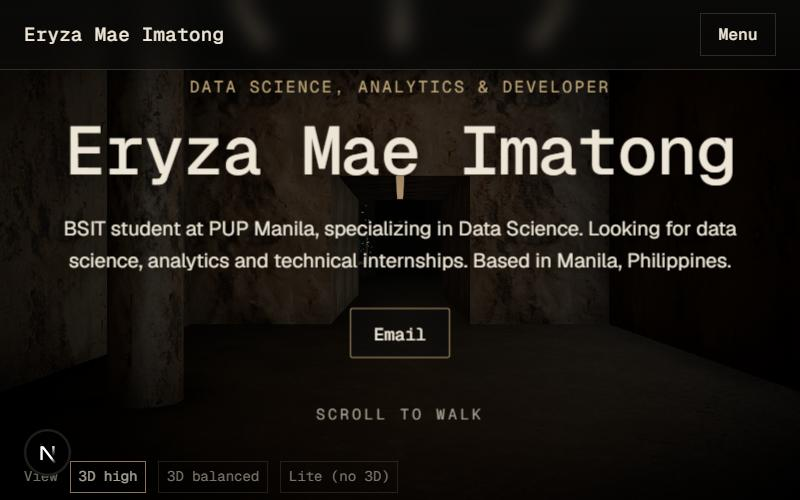
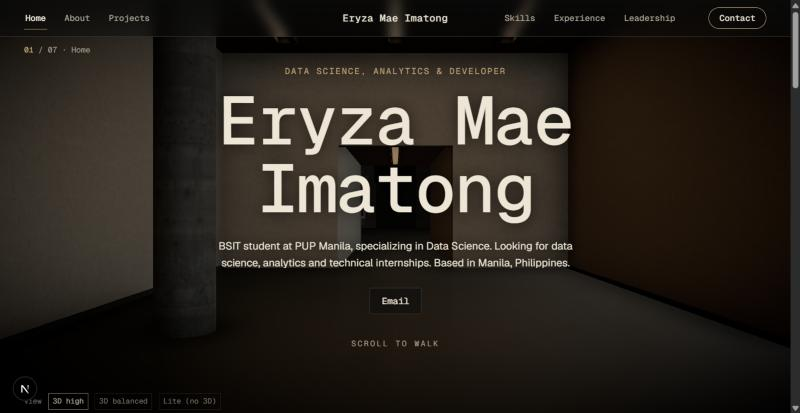
Curiosity Archive: realism pass with fine plaster and board-formed concrete, reflective floor, cool fill, door reveals, skirting gaps

diff --git a/components/museum/parts.tsx b/components/museum/parts.tsx
@@ -4,7 +4,7 @@ import * as THREE from "three";
 import { useFrame } from "@react-three/fiber";
 import { MeshReflectorMaterial } from "@react-three/drei";
 import { RectAreaLightUniformsLib } from "three/examples/jsm/lights/RectAreaLightUniformsLib.js";
-import { usePBR } from "./Materials";
+import { usePBR, WallMaterial } from "./Materials";
 import { S, useStore } from "@/lib/store";
 
 RectAreaLightUniformsLib.init();
@@ -13,48 +13,56 @@ RectAreaLightUniformsLib.init();
 export function roomGain(camZ: number, centre: number, reach: number) {
   const d = Math.abs(camZ - centre);
   const k = Math.min(Math.max(1 - d / reach, 0), 1);
-  return 0.18 + 0.82 * (k * k * (3 - 2 * k));
+  return 0.22 + 0.78 * (k * k * (3 - 2 * k));
 }
 
-/* Polished floor. High tier: real planar reflection with blur and distance fade. Others: low-roughness PBR plus the environment. */
+/* Polished floor. High tier: real planar reflection (crisp near, blurred far). Others: low-roughness PBR plus the environment. */
 export function Floor({ w, l, round, position }: { w: number; l: number; round?: boolean; position: [number, number, number] }) {
   const tier = useStore((s) => s.tier);
-  const pbr = usePBR("concrete_floor_02", [w / 2.5, l / 2.5]);
+  const pbr = usePBR("concrete_floor_worn_001", [w / 3, l / 3]);
   const geo = round ? <circleGeometry args={[w / 2, 96]} /> : <planeGeometry args={[w, l]} />;
+  const { metalnessMap: _m, ...rest } = pbr;     // keeps the roughness map (gate 1); the scalar below keeps the polish clear
   return (
     <mesh rotation={[-Math.PI / 2, 0, 0]} position={position} receiveShadow>
       {geo}
       {tier === "high" ? (
         <MeshReflectorMaterial
-          {...pbr}
-          color="#7a766f" blur={[380, 120]} mixBlur={1.1} mixStrength={1.6} mixContrast={1} resolution={768} mirror={0.6}
-          depthScale={0.7} minDepthThreshold={0.3} maxDepthThreshold={1.4} metalness={0} roughness={1} distortion={0} />
+          {...rest}
+          color="#d2cec6" blur={[90, 30]} mixBlur={0.9} mixStrength={4.5} mixContrast={1.2} resolution={1024} mirror={1}
+          depthScale={1.2} minDepthThreshold={0.4} maxDepthThreshold={1.6} metalness={0} roughness={0.32} normalScale={new THREE.Vector2(0.3, 0.3)} />
       ) : (
-        <meshStandardMaterial {...pbr} color="#7a766f" roughness={0.45} metalness={0} envMapIntensity={1.4} />
+        <meshStandardMaterial {...pbr} color="#9b9892" roughness={0.3} metalness={0} envMapIntensity={1.6} normalScale={new THREE.Vector2(0.35, 0.35)} />
       )}
     </mesh>
   );
 }
 
-/* A ceiling light slit: a thin emissive fixture plus a real RectAreaLight (area light = real falloff on the surfaces below). */
-export function Slit({ position, size, intensity = 6, color = "#ffcf9c", centreZ, reach = 14 }: { position: [number, number, number]; size: [number, number]; intensity?: number; color?: string; centreZ: number; reach?: number }) {
+/* A ceiling light slit set into a dark cove: a recessed channel, a thin emissive fixture inside it, and a real RectAreaLight. */
+export function Slit({ position, size, intensity = 8, color = "#ffd8aa", centreZ, reach = 14 }: { position: [number, number, number]; size: [number, number]; intensity?: number; color?: string; centreZ: number; reach?: number }) {
   const light = useRef<THREE.RectAreaLight>(null);
   const fix = useRef<THREE.MeshStandardMaterial>(null);
   useFrame(({ camera }) => {
     const g = S.lights * roomGain(camera.position.z, centreZ, reach);
     if (light.current) light.current.intensity = intensity * g;
-    if (fix.current) fix.current.emissiveIntensity = 2.2 * g;
+    if (fix.current) fix.current.emissiveIntensity = 1.3 * g;
   });
+  const cw = size[0] + 0.22, cl = size[1] + 0.22;
   return (
     <group position={position}>
-      <mesh rotation={[Math.PI / 2, 0, 0]} userData={{ fixture: true }}>
+      {/* cove: four dark returns so the slit reads as a recess in the ceiling, not a sticker */}
+      {[[0, cl / 2, cw, 0.14, 0], [0, -cl / 2, cw, 0.14, 0], [cw / 2, 0, 0.14, cl, 1], [-cw / 2, 0, 0.14, cl, 1]].map(([x, z, a, b], i) => (
+        <mesh key={i} position={[x, -0.07, z]} rotation={[0, 0, 0]}>
+          <boxGeometry args={[a, 0.14, b]} /><WallMaterial repeat={[0.3, 0.3]} tint="#1c1b19" />
+        </mesh>
+      ))}
+      <mesh position={[0, 0.0, 0]} rotation={[Math.PI / 2, 0, 0]} userData={{ fixture: true }}>
         <planeGeometry args={size} />
-        <meshStandardMaterial ref={fix} color="#1a1713" emissive={color} emissiveIntensity={2} roughness={0.8} />
+        <meshStandardMaterial ref={fix} color="#1a1713" emissive={color} emissiveIntensity={1.3} roughness={0.8} />
       </mesh>
       <rectAreaLight ref={light} width={size[0]} height={size[1]} color={color} intensity={intensity} rotation={[-Math.PI / 2, 0, 0]} position={[0, -0.02, 0]} />
     </group>
   );
 }
 
-export const tile = (w: number, h: number): [number, number] => [w / 3, h / 3];
+export const tile = (w: number, h: number): [number, number] => [w / 2.4, h / 2.4];
 export { THREE };

diff --git a/components/museum/ProjectsRoom.tsx b/components/museum/ProjectsRoom.tsx
@@ -5,7 +5,7 @@ import { useFrame } from "@react-three/fiber";
 import { SpotLight, Sparkles, Text, useTexture, useDepthBuffer } from "@react-three/drei";
 import { projects } from "@/data/projects";
 import { PROJ, CORRIDOR } from "@/lib/rooms";
-import { WallMaterial, OakMaterial, usePBR } from "./Materials";
+import { WallMaterial, ConcreteMaterial, OakMaterial, usePBR } from "./Materials";
 import { Floor, Slit, roomGain, tile } from "./parts";
 import { S, set, useStore } from "@/lib/store";
 
@@ -36,8 +36,8 @@ function Artwork({ index }: { index: number }) {
     const k = Math.min(1, dt * 5.5);
     const a = S.selected === index ? 1 : 0;
     if (g.current) {
-      g.current.position.z += ((a ? 0.85 : 0) - g.current.position.z) * k;       // steps forward under the spotlight
-      const s = g.current.scale.x + ((a ? 1.06 : 1) - g.current.scale.x) * k;
+      g.current.position.z += ((a ? 0.3 : 0) - g.current.position.z) * k;        // steps forward under the spotlight (kept small so it still reads as hung)
+      const s = g.current.scale.x + ((a ? 1.035 : 1) - g.current.scale.x) * k;
       g.current.scale.setScalar(s);
     }
     dim.current += ((a ? 1 : 0.62) - dim.current) * k;
@@ -62,7 +62,7 @@ function Artwork({ index }: { index: number }) {
           </mesh>
         ))}
         <mesh position={[0, 0, 0.012]} receiveShadow>
-          <boxGeometry args={[mw, mh, 0.024]} /><WallMaterial repeat={[1, 1]} tint="#cfc8b8" />
+          <boxGeometry args={[mw, mh, 0.024]} /><WallMaterial repeat={[1, 1]} tint="#e6dfcf" />
         </mesh>
         {/* the real project image */}
         <mesh position={[0, 0, 0.03]} onClick={onClick} onPointerOver={() => (document.body.style.cursor = "pointer")} onPointerOut={() => (document.body.style.cursor = "")} receiveShadow>
@@ -111,7 +111,7 @@ function Spot() {
   return (
     <>
       <SpotLight ref={light as any} depthBuffer={depth} castShadow color="#ffe2bd" angle={0.34} penumbra={1} distance={14} decay={2}
-        attenuation={7} anglePower={5} opacity={0.22} radiusTop={0.12} radiusBottom={1.5} shadow-mapSize={[1024, 1024]} shadow-radius={6} shadow-bias={-0.0004} />
+        attenuation={7} anglePower={4} opacity={0.4} radiusTop={0.12} radiusBottom={1.5} shadow-mapSize={[1024, 1024]} shadow-radius={6} shadow-bias={-0.0004} />
       <group ref={dust}>
         <Sparkles count={70} scale={[2.6, 3.4, 2.6]} size={2.6} speed={0.12} opacity={0.5} color="#ffe6c0" noise={0.4} />
       </group>
@@ -133,13 +133,26 @@ export function ProjectsRoom() {
           <WallMaterial repeat={tile(arcLen, H)} side={THREE.BackSide} />
         </mesh>
       ))}
+      {/* skirting shadow gap */}
+      {[GAP, Math.PI + GAP].map((start) => (
+        <mesh key={"sk" + start} position={[0, 0.045, zc]}>
+          <cylinderGeometry args={[R - 0.025, R - 0.025, 0.09, 96, 1, true, start, arc]} />
+          <WallMaterial repeat={[6, 0.1]} tint="#161513" side={THREE.BackSide} />
+        </mesh>
+      ))}
+      {/* door reveals (the wall has thickness): front and back openings */}
+      {[zc + R - 0.1, zc - R + 0.1].map((z, fi) => [-1, 1].map((s) => (
+        <mesh key={fi + "-" + s} position={[s * (door / 2), 1.6, z + (fi === 0 ? 0.2 : -0.2)]} rotation={[0, -s * Math.PI / 2, 0]}>
+          <planeGeometry args={[0.4, 3.2]} /><ConcreteMaterial repeat={[0.4, 1.3]} tint="#8a8780" />
+        </mesh>
+      )))}
       {/* ceiling */}
       <mesh rotation={[Math.PI / 2, 0, 0]} position={[0, H, zc]}>
-        <circleGeometry args={[R, 96]} /><WallMaterial repeat={[R / 1.5, R / 1.5]} tint="#3f3d39" />
+        <circleGeometry args={[R, 96]} /><WallMaterial repeat={[R / 1.5, R / 1.5]} tint="#4a4843" />
       </mesh>
       {/* two ceiling slits wash the floor near the walls */}
-      <Slit position={[-4.6, H - 0.02, zc]} size={[0.2, 8]} intensity={4} centreZ={zc} reach={12} />
-      <Slit position={[4.6, H - 0.02, zc]} size={[0.2, 8]} intensity={4} centreZ={zc} reach={12} />
+      <Slit position={[-4.6, H - 0.02, zc]} size={[0.2, 8]} intensity={30} centreZ={zc} reach={12} />
+      <Slit position={[4.6, H - 0.02, zc]} size={[0.2, 8]} intensity={30} centreZ={zc} reach={12} />
       <Artwork index={0} />
       <Artwork index={1} />
       <Spot />

diff --git a/components/museum/Hall.tsx b/components/museum/Hall.tsx
@@ -3,7 +3,7 @@ import { useRef } from "react";
 import * as THREE from "three";
 import { useFrame } from "@react-three/fiber";
 import { HALL, CORRIDOR } from "@/lib/rooms";
-import { WallMaterial } from "./Materials";
+import { WallMaterial, ConcreteMaterial } from "./Materials";
 import { Floor, Slit, roomGain, tile } from "./parts";
 import { S } from "@/lib/store";
 
@@ -48,10 +48,19 @@ export function Hall() {
       {/* a concrete column, so the space has structure and the light has something to wrap around */}
       <mesh position={[-2.7, h / 2, -8.5]} castShadow receiveShadow>
         <cylinderGeometry args={[0.38, 0.38, h, 48]} />
-        <WallMaterial repeat={[1.2, 1.8]} tint="#6a675f" />
+        <ConcreteMaterial repeat={[1.2, 1.6]} />
       </mesh>
+      {/* skirting shadow gap: a dark recessed strip where wall meets floor */}
+      {[-1, 1].map((s) => (
+        <mesh key={s} position={[s * (w / 2 - 0.02), 0.045, -l / 2]}><boxGeometry args={[0.04, 0.09, l]} /><WallMaterial repeat={[0.2, 0.2]} tint="#161513" /></mesh>
+      ))}
+      {/* door reveal: the wall has thickness, so the doorway has depth */}
+      {[-1, 1].map((s) => (
+        <mesh key={s} position={[s * DOOR_W / 2, DOOR_H / 2, back - 0.2]} rotation={[0, -s * Math.PI / 2, 0]} receiveShadow><planeGeometry args={[0.4, DOOR_H]} /><ConcreteMaterial repeat={[0.4, 1.3]} tint="#8a8780" /></mesh>
+      ))}
+      <mesh position={[0, DOOR_H, back - 0.2]} rotation={[Math.PI / 2, 0, 0]}><planeGeometry args={[DOOR_W, 0.4]} /><ConcreteMaterial repeat={[1.2, 0.2]} tint="#5d5b56" /></mesh>
       {/* three ceiling slits */}
-      {[-2.6, 0, 2.6].map((x) => (<Slit key={x} position={[x, h - 0.02, -8]} size={[0.22, 13]} centreZ={-8} reach={14} />))}
+      {[-2.6, 0, 2.6].map((x) => (<Slit key={x} position={[x, h - 0.02, -8]} size={[0.22, 13]} intensity={11} centreZ={-8} reach={14} />))}
       {/* one shadow-casting spotlight washing the back wall, where the name sits */}
       <spotLight ref={spot} position={[0, h - 0.3, -3.2]} angle={0.42} penumbra={1} decay={2} distance={22} color="#ffd6a0" castShadow shadow-mapSize={[1024, 1024]} shadow-radius={6} shadow-bias={-0.0004} />
       <object3D ref={target} position={[0, 2.3, back]} />
@@ -71,7 +80,7 @@ function Corridor() {
       <Wall w={w} h={l} position={[0, h, cz]} rotation={[Math.PI / 2, 0, 0]} tint="#3f3d39" />
       <Wall w={l} h={h} position={[-w / 2, h / 2, cz]} rotation={[0, Math.PI / 2, 0]} />
       <Wall w={l} h={h} position={[w / 2, h / 2, cz]} rotation={[0, -Math.PI / 2, 0]} />
-      <Slit position={[0, h - 0.02, cz]} size={[0.2, l - 1.5]} intensity={4} centreZ={cz} reach={9} />
+      <Slit position={[0, h - 0.02, cz]} size={[0.2, l - 1.5]} intensity={7} centreZ={cz} reach={9} />
     </group>
   );
 }

diff --git a/components/museum/Materials.tsx b/components/museum/Materials.tsx
@@ -4,7 +4,7 @@ import * as THREE from "three";
 import { useTexture } from "@react-three/drei";
 
 /* PBR sets (Poly Haven, CC0). `arm` packs AO (R), roughness (G), metalness (B): one texture feeds three slots. */
-export type PBRName = "concrete_wall_003" | "concrete_floor_02" | "oak_veneer_01";
+export type PBRName = "plastered_wall" | "concrete_layers_02" | "concrete_floor_worn_001" | "oak_veneer_01";
 
 export function usePBR(name: PBRName, repeat: [number, number] = [1, 1], rotate = 0) {
   const [diff, nor, arm] = useTexture([`/textures/${name}/diff.jpg`, `/textures/${name}/nor.jpg`, `/textures/${name}/arm.jpg`]);
@@ -24,14 +24,20 @@ export function usePBR(name: PBRName, repeat: [number, number] = [1, 1], rotate 
   }, [diff, nor, arm, repeat[0], repeat[1], rotate]);
 }
 
-/* Wall: board-formed concrete, deliberately dark so the light does the work. */
-export function WallMaterial({ repeat, tint = "#66665f", side }: { repeat: [number, number]; tint?: string; side?: THREE.Side }) {
-  const m = usePBR("concrete_wall_003", repeat);
-  return <meshStandardMaterial {...m} color={tint} roughness={1} metalness={0} normalScale={new THREE.Vector2(1.1, 1.1)} aoMapIntensity={1} envMapIntensity={0.5} side={side} />;
+/* Walls: fine plaster, kept dark by tint so the light does the work. */
+export function WallMaterial({ repeat, tint = "#8d8a84", side }: { repeat: [number, number]; tint?: string; side?: THREE.Side }) {
+  const m = usePBR("plastered_wall", repeat);
+  return <meshStandardMaterial {...m} color={tint} roughness={1} metalness={0} normalScale={new THREE.Vector2(0.9, 0.9)} aoMapIntensity={1} envMapIntensity={0.6} side={side} />;
+}
+
+/* Board-formed concrete for structure: columns, soffits, door reveals. */
+export function ConcreteMaterial({ repeat = [1, 1] as [number, number], tint = "#77746e", side }: { repeat?: [number, number]; tint?: string; side?: THREE.Side }) {
+  const m = usePBR("concrete_layers_02", repeat);
+  return <meshStandardMaterial {...m} color={tint} roughness={1} metalness={0} normalScale={new THREE.Vector2(1, 1)} envMapIntensity={0.6} side={side} />;
 }
 
 /* Honed oak for frames and plaques. */
-export function OakMaterial({ repeat = [1, 1] as [number, number], tint = "#3a2a1e" }: { repeat?: [number, number]; tint?: string }) {
+export function OakMaterial({ repeat = [1, 1] as [number, number], tint = "#4a3626" }: { repeat?: [number, number]; tint?: string }) {
   const m = usePBR("oak_veneer_01", repeat);
-  return <meshStandardMaterial {...m} color={tint} roughness={0.9} metalness={0} envMapIntensity={0.6} />;
+  return <meshStandardMaterial {...m} color={tint} roughness={0.85} metalness={0} envMapIntensity={0.7} />;
 }

diff --git a/components/museum/Scene.tsx b/components/museum/Scene.tsx
@@ -35,8 +35,9 @@ export default function Scene() {
         <color attach="background" args={["#0c0c0b"]} />
         <fog attach="fog" args={["#0c0c0b", 16, 50]} />
         <Suspense fallback={null}>
-          <Environment files="/hdri/photo_studio_loft_hall_1k.hdr" environmentIntensity={tier === "high" ? 0.16 : 0.2} background={false} />
-          <hemisphereLight args={["#9fb0d8", "#241d18", 0.05]} />
+          <Environment files="/hdri/photo_studio_loft_hall_1k.hdr" environmentIntensity={tier === "high" ? 0.3 : 0.34} background={false} />
+          {/* a cool, very dim fill (about 6000K) against the warm key lights, for natural colour contrast */}
+          <hemisphereLight args={["#a9bde8", "#1c1a18", 0.22]} />
           <Hall />
           <ProjectsRoom />
           <CameraRig />

diff --git a/VISUAL_QA.md b/VISUAL_QA.md
@@ -1,38 +1,48 @@
-# VISUAL QA: checkpoint 1 (Home hall + Projects room)
+# VISUAL QA
 
-Environment: Chrome in the Claude desktop browser pane, dev server, `?tier=high`. Screenshots are cropped by the pane to about 800 px wide, and the pane's GPU and frame rate are unknown. Everything below is judged from screenshots only.
+Environment: Chrome in the Claude desktop browser pane, Next dev server, `?tier=high`. Judged from screenshots only; the pane's GPU and frame rate are unknown, so **no performance claim is made**.
 
-Screenshots (`visual-qa/`): `home-wide.jpg`, `projects-rewatch-wide.jpg`, `projects-aura-wide.jpg`, `projects-mobile.jpg`. A "close" view per room is **not yet captured**; gate 7 is only partly met.
+## Checkpoint 2: realism pass (Home hall + Projects room)
 
-## Gate results
+Screenshots in `visual-qa/`: `home-wide.jpg`, `projects-wide.jpg`, `projects-close.jpg`, `projects-mobile.jpg` (mobile is from checkpoint 1, taken after the camera fix and before the texture swap, so it still shows the old brown walls; **needs a re-shoot**).
+
+### What changed since checkpoint 1
+| Problem found | Fix | Result |
+|---|---|---|
+| Walls looked stained and grimy (`concrete_wall_003`) | Fine plaster (`plastered_wall`) for walls, board-formed concrete (`concrete_layers_02`) for the column and door reveals | **Fixed.** Clean, calm, architectural. |
+| Dirty brown floor (`concrete_floor_02`) | `concrete_floor_worn_001`, lighter tint | Fixed. |
+| Floor reflection absent | Real reflector with crisper blur, lighter floor, stronger slit lights | **Now visible:** the lit frame, plaque and screen reflect in the floor with blur. Slightly stepped at the far edge. |
+| Colour almost all warm brown | Cool 6000K hemisphere fill against the warm 3200K spots, higher environment | Better: walls read neutral grey-green, warm light stays on the artwork and floor pool. Cool fill is still subtle. |
+| Frame looked like a freestanding lightbox | Steps forward 0.3 (was 0.85) and scales 1.035 | Reads as hung. (The brief's "about 0.85 units" was too much at this room scale.) |
+| Ceiling slits were flat cream rectangles | Recessed dark cove around each slit, dimmer emissive fixture | Better; still a little flat. |
+| No wall thickness, no skirting gap | Door reveals (jambs + soffit), dark skirting shadow gap | Added. Visible at the doorways. |
+| Beam faint after the wall change | Beam opacity .22 to .4 | Visible again with dust. |
+| Mobile: work off-screen | Camera turns fully to the work on portrait screens | Fixed (checkpoint 1 shot). |
+| Textures took about 30 s to finish loading in dev | Plaster and concrete back to 1k; unused sets removed (8 MB left) | Should be much lighter; **load time not re-measured**. |
+
+### Gate results
 | Gate | Result |
 |---|---|
-| 1 Material audit | Ran in the page (`window.__scene` walk). 48 meshes / 48 materials. After the fix: the two artwork prints now carry a normal + roughness map. The 4 remaining `MeshBasicMaterial` hits are troika SDF **text glyph meshes** (plaque text), which are exempt text, not surfaces. Ceiling slit fixtures are flagged `fixture` (emissive). Re-run not yet pasted after the fix. |
-| 2 Light audit | Home: 3 ceiling-slit RectAreaLights + 1 corridor slit + 1 shadow-casting SpotLight (back wall) + dim HDRI. Projects: 2 slit RectAreaLights + antechamber slit + 1 shadow-casting SpotLight (the sliding exhibit light) + HDRI. Passes. |
-| 3 Reflection test | **Weak.** `MeshReflectorMaterial` is on the floors, but in the screenshots the floor reads as dark matte concrete with only a faint sheen under the lit frame. I cannot say the frames are "visibly reflected with blur". Needs tuning (lower roughness, stronger mirror, a lighter floor). |
-| 4 Glass test | Not applicable yet (Leadership room not built). |
-| 5 Texture check | 1k JPG, 3 tiled sets. No obvious stretching. Repetition is not obvious at the resting views but the wall texture itself reads stained. Not KTX2-compressed (no `toktx` here). |
-| 6 Banned-look scan | See critique. No neon, flare or glow outlines. A **muddy brown cast and grimy walls** is the main failure. |
-| 7 Screenshot proof | Wide + mobile captured; close views missing. |
-| 8 Honesty | See below. |
+| 1 Material audit | Run in page: 87 meshes / 87 materials. Remaining non-PBR hits are troika SDF **text glyph meshes** (plaque text; exempt) and ceiling fixture planes flagged `fixture` (emissive; exempt). The reflective floors lacked a roughness map in the first run of this pass; roughness map restored afterwards. **Re-run after that last change is not yet pasted.** |
+| 2 Light audit | Home: 3 ceiling-slit RectAreaLights + corridor slit + 1 shadow-casting SpotLight + HDRI + hemisphere fill. Projects: 2 slit RectAreaLights + antechamber slit + 1 shadow-casting SpotLight (sliding exhibit light) + HDRI + hemisphere fill. Passes. |
+| 3 Reflection test | **Passes, modestly.** Blurred reflection of the lit frame and plaque visible in `projects-close.jpg`. |
+| 4 Glass test | N/A until the Leadership room exists. |
+| 5 Texture check | No visible stretching at resting views; plaster tiling not obvious. 1k JPG, not KTX2. |
+| 6 Banned-look scan | No neon, flare, glow outlines, blurry baked text or flat grey walls. The room is darker and sparser than a real museum photograph. |
+| 7 Screenshot proof | Wide + close for both rooms; mobile needs a re-shoot. |
+| 8 Honesty | Stated below. |
 
-## Critique against section 2 (what still looks fake)
-**Works:** real 3D architecture connected by a doorway and corridor; PBR concrete with visible grain and shadowed column; warm spotlight with a soft penumbra, a visible beam and drifting dust; framed work with mat, slim oak frame, plaque with catalogue number, name and year; the selected work steps forward and the light slides to it; layout and text stay crisp HTML.
+### Honest critique: what still looks fake
+1. **Too dark overall, with a black void in the lower third.** The floor is glossy dark; only the spot pool and the reflection lift it. A real gallery photograph would show more soft ambient bounce on the walls.
+2. **The reflection is blurry and slightly stepped** (low-resolution reflector plus the normal map), not a clean mirror-polish.
+3. **Only two works** hang on a large round room, so it feels empty; the sliding-spotlight idea has little to slide between.
+4. **No ceiling cove or coffer detail**, and the corridor and antechamber are still plain boxes.
+5. **The beam is a cone**, not a noisy raymarched volume, so it can look flat from some angles.
+6. **Perfect geometry**: no scuffs, dust on the floor or panel seams (the brief asks for subtle imperfection).
+7. **Performance is unmeasured.**
 
-**Still fake or weak:**
-1. **The walls look dirty, not refined.** The Poly Haven "Concrete Wall 003" is a stained, weathered concrete. Under warm light it turns brown and mottled, like a basement. A cleaner honed plaster or board-formed concrete is needed; this is the biggest realism problem.
-2. **Floor reflections are not convincing** (gate 3).
-3. **Colour is almost monochrome warm brown.** The brief wants a warm key against a cooler fill; the cool fill is too weak to read.
-4. **The stepped-forward frame looks like a freestanding lightbox.** At 0.85 units forward and 1.06 scale, with a dark gap behind it, it stops reading as hung on the wall.
-5. **Ceiling slit fixtures read as flat cream rectangles** in the corridor and antechamber.
-6. **Walls are thin planes with no thickness**, so doorways have no reveal depth; no skirting shadow gap, no ceiling cove, no panel seams yet.
-7. **Only two works** hang on the wall, so the room is sparse.
-8. **Performance is unmeasured.** First load of the 3D scene took roughly 8 to 10 seconds in the dev server on this machine, before any optimisation, and I cannot measure frame rate here.
+### Not built yet
+About, Skills, Experience, Leadership and Contact in 3D (they exist in Lite with identical content); the Re:Watch trait mixer and AURA pipeline explainer in the Inspect panel; KTX2; a production-build timing.
 
-## Fixed this pass
-- Mobile: the camera now turns fully to the selected work on portrait screens (before: the work was off-screen).
-- Artwork prints are now PBR surfaces for gate 1.
-- Spotlight colour made less orange, wall tint made slightly cooler.
-
-## Not built yet
-About, Skills, Experience, Leadership and Contact in 3D (they exist in the Lite layout, same content); Inspect-panel explainers (trait mixer, AURA pipeline); a "close" screenshot per room; KTX2 compression; production-build performance check.
+## Checkpoint 1 (superseded)
+Brown stained walls, no visible floor reflection, frame stepping 0.85. Kept only for the mobile shot.

diff --git a/CREDITS.md b/CREDITS.md
@@ -3,13 +3,15 @@
 ## Textures and lighting (CC0, Poly Haven, https://polyhaven.com)
 | Asset | Use | Resolution / format |
 |---|---|---|
-| Concrete Wall 003 (`concrete_wall_003`) | Walls, ceilings, mat boards | 1k JPG (diffuse, normal GL, ARM) |
-| Concrete Floor 02 (`concrete_floor_02`) | Polished floors | 1k JPG (diffuse, normal GL, ARM) |
-| Oak Veneer 01 (`oak_veneer_01`) | Frames, plaques | 1k JPG (diffuse, normal GL, ARM) |
+| Plastered Wall (`plastered_wall`) | Walls, ceilings, mat boards | 1k JPG (diffuse, normal GL, ARM) |
+| Concrete Layers 02 (`concrete_layers_02`) | Board-formed concrete: column, door reveals | 1k JPG (diffuse, normal GL, ARM) |
+| Concrete Floor Worn 001 (`concrete_floor_worn_001`) | Polished concrete floors | 2k JPG (diffuse, normal GL, ARM) |
+| Oak Veneer 01 (`oak_veneer_01`) | Frames, plaques, print grain | 1k JPG (diffuse, normal GL, ARM) |
 | Photo Studio Loft Hall (`photo_studio_loft_hall`) | Dim image-based lighting | 1k HDR |
 
 All Poly Haven assets are CC0 (public domain). No attribution is required; credited here anyway.
-Not yet compressed to KTX2/Basis (no `toktx` tool in this environment); JPG at 1k is used instead.
+Not compressed to KTX2/Basis (no `toktx` tool in this environment); JPG is used instead. Total texture payload is about 8 MB plus 1.6 MB HDRI.
+Earlier choices `concrete_wall_003` and `concrete_floor_02` were dropped: they looked stained and dirty under warm light.
 
 ## Fonts
 - Geist Sans and Geist Mono, Vercel, SIL Open Font License 1.1 (`geist` npm package; `@fontsource/geist-mono` for the .woff used by the 3D text).
